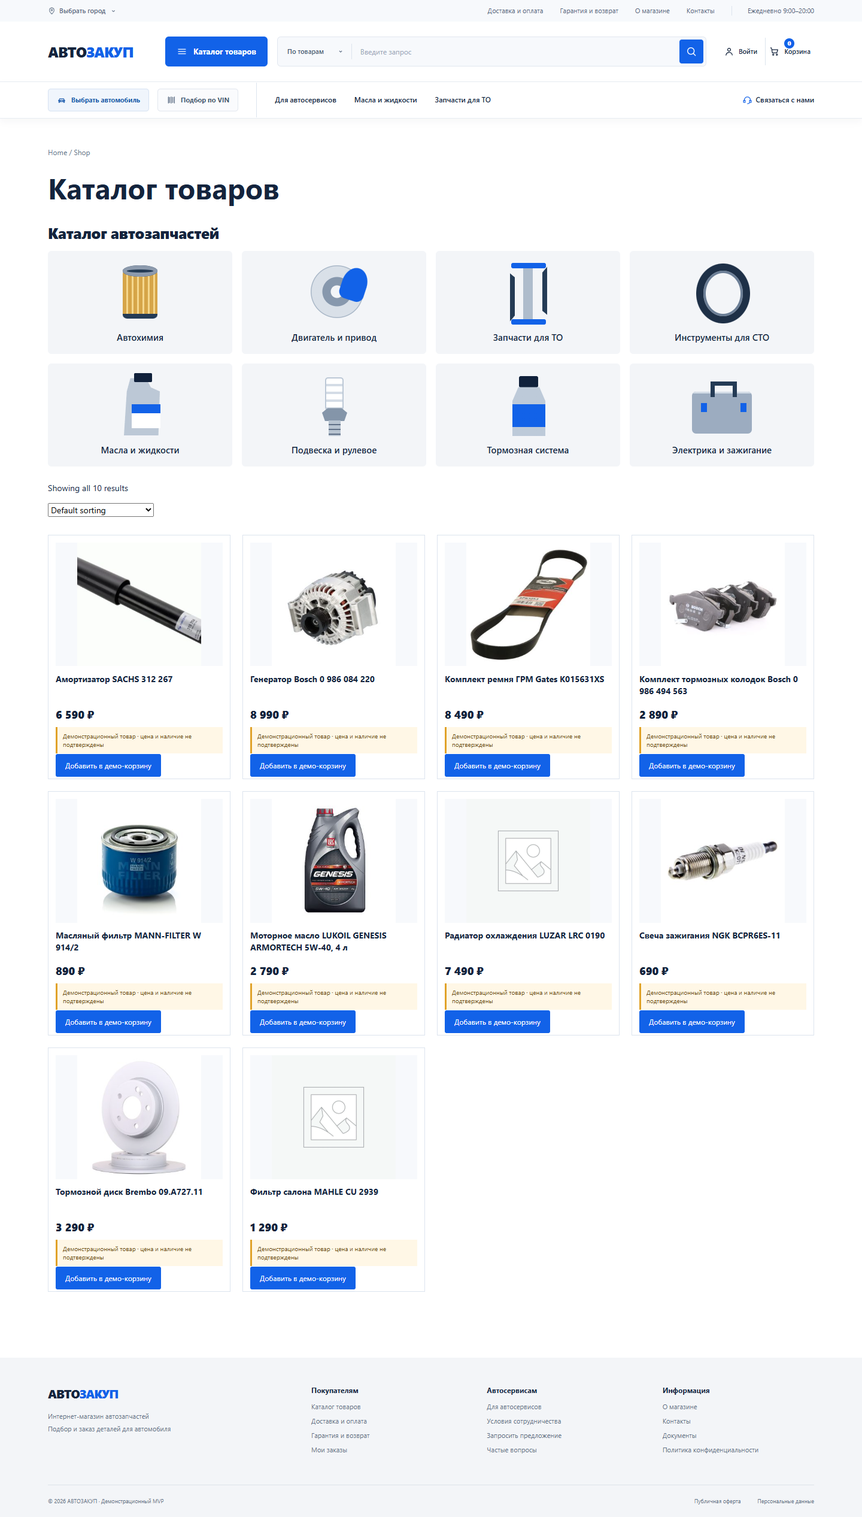
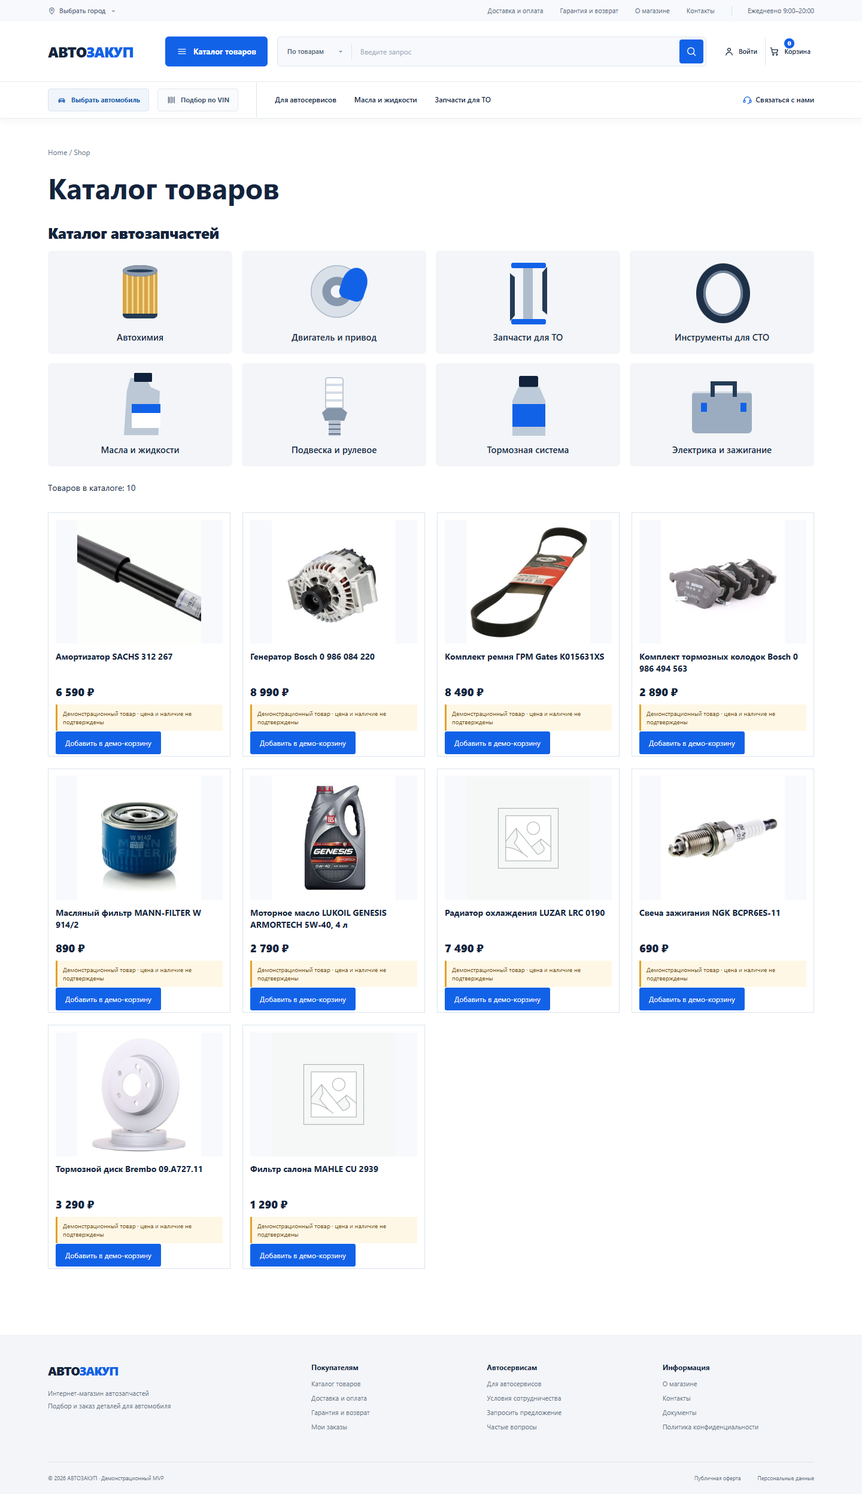
Scope canonical shop presentation controls

diff --git a/tests/e2e/catalog.spec.ts b/tests/e2e/catalog.spec.ts
@@ -30,12 +30,48 @@ test('opens the dynamic catalog and a published WooCommerce category', async ({ 
   await page.goto(shopUrl!, { waitUntil: 'networkidle' });
   await expect(page.getByRole('heading', { level: 1, name: 'Каталог товаров' })).toBeVisible();
 
+  const resultCount = page.locator('[data-shop-product-count]');
+  await expect(resultCount).toHaveCount(1);
+  await expect(resultCount).toHaveText(/^Товаров в каталоге: \d+$/);
+  await expect(page.locator('.woocommerce-ordering')).toHaveCount(0);
+
+  const visibleProducts = page.locator('ul.products li.product');
+  const visibleProductCount = await visibleProducts.count();
+  expect(visibleProductCount, 'The canonical catalog should render published products').toBeGreaterThan(0);
+  const totalProductCount = Number((await resultCount.innerText()).match(/\d+$/)?.[0] ?? 0);
+  expect(totalProductCount, 'The catalog total should cover every product visible on the current page').toBeGreaterThanOrEqual(visibleProductCount);
+  const productHrefs = await visibleProducts.locator('.woocommerce-loop-product__link').evaluateAll((links) =>
+    links.map((link) => (link as HTMLAnchorElement).href),
+  );
+  expect(productHrefs).toHaveLength(visibleProductCount);
+  const shopOrigin = new URL(page.url()).origin;
+  expect(
+    productHrefs.every((href) => {
+      const productUrl = new URL(href);
+      return productUrl.origin === shopOrigin && productUrl.pathname.length > 1;
+    }),
+    'Every catalog card should retain a same-origin product URL',
+  ).toBe(true);
+
   const catalog = page.locator('.az-shop-categories');
   await expect(catalog).toBeVisible();
   await expect(catalog.getByRole('heading', { name: 'Каталог автозапчастей' })).toBeVisible();
 
   const categoryCards = catalog.locator('.az-category-card');
   expect(await categoryCards.count(), 'The seeded top-level catalog should expose its eight demo categories').toBeGreaterThanOrEqual(8);
+
+  const accessibility = await new AxeBuilder({ page }).analyze();
+  const blockingViolations = accessibility.violations.filter((violation) => ['serious', 'critical'].includes(violation.impact ?? ''));
+  expect(
+    blockingViolations,
+    `Serious/critical axe violations:\n${JSON.stringify(blockingViolations, null, 2)}`,
+  ).toEqual([]);
+
+  const shopPageWidth = await page.evaluate(() => ({
+    clientWidth: document.documentElement.clientWidth,
+    scrollWidth: Math.max(document.documentElement.scrollWidth, document.body.scrollWidth),
+  }));
+  expect(shopPageWidth.scrollWidth).toBeLessThanOrEqual(shopPageWidth.clientWidth + 1);
 
   const visualDiffDirectory = path.resolve(process.cwd(), 'docs/qa/visual-diffs');
   await mkdir(visualDiffDirectory, { recursive: true });
@@ -54,6 +90,9 @@ test('opens the dynamic catalog and a published WooCommerce category', async ({ 
   await expect(page).toHaveURL(/\/product-category\//);
   await expect(page.locator('.woocommerce-breadcrumb')).toContainText('Тормозная система');
   await expect(page.getByRole('heading', { level: 1, name: 'Тормозная система' })).toBeVisible();
+  await expect(page.locator('[data-shop-product-count]')).toHaveCount(0);
+  await expect(page.locator('.woocommerce-result-count')).toHaveCount(1);
+  await expect(page.locator('.woocommerce-ordering')).toHaveCount(1);
   expect(await page.locator('ul.products li.product').count(), 'The published category should contain demo products').toBeGreaterThan(0);
 
   const pageWidth = await page.evaluate(() => ({

diff --git a/wp-content/themes/avtozakup/functions.php b/wp-content/themes/avtozakup/functions.php
@@ -191,8 +191,12 @@ function avtozakup_is_product_search_request(): bool {
 		|| ( is_array( $post_type ) && 1 === count( $post_type ) && 'product' === reset( $post_type ) );
 }
 
+function avtozakup_is_catalog_shop_request(): bool {
+	return function_exists( 'is_shop' ) && is_shop() && ! is_search();
+}
+
 function avtozakup_woocommerce_page_title( string $title ): string {
-	if ( function_exists( 'is_shop' ) && is_shop() && ! is_search() ) {
+	if ( avtozakup_is_catalog_shop_request() ) {
 		return 'Каталог товаров';
 	}
 
@@ -209,6 +213,13 @@ function avtozakup_render_product_search_result_count(): void {
 	$count = $wp_query instanceof WP_Query ? (int) $wp_query->found_posts : 0;
 	?>
 	<p class="woocommerce-result-count" data-product-search-count><?php echo esc_html( sprintf( 'Найдено товаров: %d', $count ) ); ?></p>
+	<?php
+}
+
+function avtozakup_render_shop_result_count(): void {
+	$count = function_exists( 'wc_get_loop_prop' ) ? (int) wc_get_loop_prop( 'total' ) : 0;
+	?>
+	<p class="woocommerce-result-count" data-shop-product-count><?php echo esc_html( sprintf( 'Товаров в каталоге: %d', $count ) ); ?></p>
 	<?php
 }
 
@@ -243,10 +254,21 @@ function avtozakup_configure_product_search_page(): void {
 	remove_action( 'woocommerce_before_shop_loop', 'woocommerce_catalog_ordering', 30 );
 }
 
+function avtozakup_configure_catalog_shop_page(): void {
+	if ( ! avtozakup_is_catalog_shop_request() ) {
+		return;
+	}
+
+	remove_action( 'woocommerce_before_shop_loop', 'woocommerce_result_count', 20 );
+	add_action( 'woocommerce_before_shop_loop', 'avtozakup_render_shop_result_count', 20 );
+	remove_action( 'woocommerce_before_shop_loop', 'woocommerce_catalog_ordering', 30 );
+}
+
 add_action( 'woocommerce_after_shop_loop_item', 'avtozakup_render_loop_demo_provenance', 7 );
 add_action( 'woocommerce_single_product_summary', 'avtozakup_render_single_demo_provenance', 11 );
 add_action( 'wp', 'avtozakup_configure_demo_product_page' );
 add_action( 'wp', 'avtozakup_configure_product_search_page' );
+add_action( 'wp', 'avtozakup_configure_catalog_shop_page' );
 add_filter( 'woocommerce_get_availability_text', 'avtozakup_demo_product_availability_text', 10, 2 );
 add_filter( 'woocommerce_product_single_add_to_cart_text', 'avtozakup_demo_single_add_to_cart_text', 10, 2 );
 add_filter( 'woocommerce_product_add_to_cart_text', 'avtozakup_demo_loop_add_to_cart_text', 10, 2 );
@@ -257,7 +279,7 @@ add_filter( 'woocommerce_page_title', 'avtozakup_woocommerce_page_title' );
 add_action(
 	'woocommerce_before_shop_loop',
 	static function (): void {
-		if ( ! function_exists( 'is_shop' ) || ! is_shop() || is_search() ) {
+		if ( ! avtozakup_is_catalog_shop_request() ) {
 			return;
 		}
 

diff --git a/docs/implementation/progress.md b/docs/implementation/progress.md
@@ -17,7 +17,7 @@
 | Demo provenance Woo | marked products явно подписаны на category/search cards и PDP; PDP показывает whitelisted Paper source, unknown raw meta не публикуется | реальные sources/freshness/offers только после DEC/интеграционных контрактов | `DONE / PROVISIONAL` для `I2-S3`; `PBL-011/FR-CAT-002/FR-OFR-002 partial` |
 | Technical demo PDP | exact seed SKU назван техническим, availability не выдаёт численный stock, action ведёт в демо-корзину, default related скрыт у marked demo | полный SCR-009, verified identifiers/relations/fitment/offers после DEC и контрактов | `DONE / PROVISIONAL` для `I2-S4`; `FR-CAT-002/003 partial` |
 | Product search baseline | neutral generic form; escaped query context/no-results; positive `Фильтр` → `2` product cards; shop category grid исключён из results | field index/ranking/normalization/suggestions и утверждённый DG-001/018 | `DONE / PROVISIONAL` для `I2-S5/S6`; `PBL-002/006/012` остаются blocked |
-| Scoped Woo public copy | shop H1, search count, demo loop action и PDP description labels локализованы named hooks без data mutation | breadcrumb/full Woo/admin/account/cart/checkout translation | `DONE / PROVISIONAL` для `I2-S7`; не полный i18n |
+| Scoped Woo public copy | shop H1/total, search count, demo loop action и PDP description labels локализованы named hooks; shop/search ordering UI снят до ranking contract | breadcrumb/full Woo/admin/account/cart/checkout translation; ranking/query | `DONE / PROVISIONAL` для `I2-S7/S9`; не полный i18n |
 | User-owned product isolation | authenticated temporary unmarked product сохраняет user SKU/stock/action/content и не получает demo UI; force-delete cleanup подтверждён | production master/RBAC/stock/lifecycle | `DONE / TECHNICAL` для `I2-S8`; не business acceptance |
 | Demo safety | AJAX add, badge, cart page, classic disabled checkout и direct Store API 403 прошли; demo маркировка сохранена | production commerce остаётся blocked до DEC | `DONE` для demo safety Итерации 1 |
 | Mobile | `390` и `360` проходят no-overflow, axe baseline и browser-error checks | утверждённый mobile-макет после DEC-019/020 | `DONE` для provisional adaptation; `DESIGN_REVIEW_REQUIRED` |
@@ -26,7 +26,7 @@
 | Backup/restore | парный DB+uploads backup проверен; isolated restore drill прошёл | production retention и scheduled recovery drill | `DONE` для локального drill |
 | Git deployment | ff-only/pre-backup/smoke script подготовлен, но Git remote и серверный target не подтверждены | создать/подтвердить remote, branch и staging/server access | `BLOCKED`; не DEPLOYED |
 | Server | доступ и диагностика не подтверждены | inventory existing sites/proxy/ports/volumes | `BLOCKED / NOT_DEPLOYED` |
-| E2E/a11y/visual | текущий Playwright: `29` tests, `27 passed`, `2 intentional skipped`, `0 failed`; catalog/search/PDP journeys на `1440/390/360` + desktop user-owned isolation | утверждение visual baseline после DEC-019/020 | Iteration 1 и I2-S1/S3/S4/S5/S6/S7/S8 technical acceptance PASS; `DESIGN_REVIEW_REQUIRED` |
+| E2E/a11y/visual | текущий Playwright: `29` tests, `27 passed`, `2 intentional skipped`, `0 failed`; catalog/search/PDP journeys на `1440/390/360` + desktop user-owned isolation | утверждение visual baseline после DEC-019/020 | Iteration 1 и I2-S1/S3/S4/S5/S6/S7/S8/S9 technical acceptance PASS; `DESIGN_REVIEW_REQUIRED` |
 
 ## Известные блокеры
 
@@ -48,6 +48,7 @@
 - DOM-selected marked product → technical SKU, unconfirmed demo availability, demo-cart action, no default related, image/descriptions/category, axe/no-overflow/runtime на `1440/390/360` — `PASS`.
 - Generic product special-character no-results → escaped H1/searchbox/status, no product cards, configured `/shop/` return, axe/no-overflow/runtime на `1440/390/360` — `PASS`.
 - Generic `Фильтр` results → two fixture product cards with provenance/permalinks, no shop category grid, axe/no-overflow/runtime на `1440/390/360` — `PASS`.
+- Canonical shop → local total `10`, no ordering UI; category retains standard ordering, cards/URLs + axe/no-overflow/runtime на `1440/390/360` — `PASS`.
 - Authenticated temporary unmarked product → no demo loop/PDP semantics, exact user SKU/stock/content, force-delete cleanup; post-full inventory `10/0` — `PASS`.
 - Runtime: WordPress `7.1.4`, WooCommerce `11.2.1`, PHP `8.3.36`, MariaDB `11.4.13`.
 - Seed после I2-S2B: `8` categories, `10` products, `10` attachments, `6` plugin-owned pages + `4` Woo page references, menu `24`; options `4/5/6/7`, confirm no-op и seed ×2 подтверждены.

diff --git a/docs/implementation/acceptance-status.md b/docs/implementation/acceptance-status.md
@@ -5,7 +5,7 @@
 
 **Приёмочный прогон Итерации 1:** `13` tests = `11 passed`, `2 intentional skipped`, `0 failed`.
 
-**Текущий regression после I2-S8:** `29` tests = `27 passed`, `2 intentional skipped`, `0 failed`; desktop `1440`, mobile `390`, mobile `360`, отдельный serial desktop admin project. Два skip — ожидаемые mobile-копии viewport-независимого Store API guard.
+**Текущий regression после I2-S9:** `29` tests = `27 passed`, `2 intentional skipped`, `0 failed`; desktop `1440`, mobile `390`, mobile `360`, отдельный serial desktop admin project. Два skip — ожидаемые mobile-копии viewport-независимого Store API guard.
 
 ## Технические критерии Итерации 2
 
@@ -101,6 +101,18 @@ I2-S7 имеет qualifier `PROVISIONAL / DESIGN_REVIEW_REQUIRED`; breadcrumb, s
 | I2-S8-ACC-005 | Regression не ухудшен | targeted `1 passed`; full `29`: `27 passed`, `2 intentional skipped`, `0 failed` | `PASS` |
 
 I2-S8 закрывает только technical isolation regression; production master data, permissions matrix, stock truth, relations и lifecycle остаются open/blocked.
+
+### I2-S9 — truthful canonical shop controls
+
+| ID | Критерий | Доказательство | Статус |
+|---|---|---|---|
+| I2-S9-ACC-001 | Shop count локален и truthful | one `[data-shop-product-count]` = «Товаров в каталоге: 10»; total >= visible cards | `PASS` |
+| I2-S9-ACC-002 | Unapproved ordering UI не показан | `.woocommerce-ordering` = `0` только на canonical shop; query/order filters не менялись | `PASS` |
+| I2-S9-ACC-003 | Search/category изолированы | search own count/no-ordering проходит; category has no shop marker и retains standard ordering | `PASS` |
+| I2-S9-ACC-004 | Responsive/a11y/runtime не ухудшены | catalog `3 passed` на `1440/390/360`; axe serious/critical `0`; no overflow/runtime; screenshots reviewed | `PASS` |
+| I2-S9-ACC-005 | Regression не ухудшен | full `29`: `27 passed`, `2 intentional skipped`, `0 failed` | `PASS` |
+
+I2-S9 закрывает только canonical-shop presentation. Ranking contract, query/data behavior, full localization и visual approval остаются open.
 
 ## Технические критерии Итерации 1
 

diff --git a/docs/implementation/iterations.md b/docs/implementation/iterations.md
@@ -342,6 +342,32 @@ Qualifier: это prevention-срез; одноразовая локальная
 
 Статус относится только к автоматизированной isolation/regression границе. Он не утверждает production master data, RBAC matrix, real stock или lifecycle.
 
+### I2-S9 — truthful canonical shop controls
+
+**Статус:** `DONE / PROVISIONAL`
+
+**Связь:** `SCR-005`, `PBL-010/PBL-012 partial`; presentation/ranking safety без новой business semantics.
+
+Критерии среза:
+
+- canonical shop определяется fail-closed как `is_shop() && !is_search()`;
+- default Woo result count заменяется named renderer «Товаров в каталоге: N» из `wc_get_loop_prop('total')`;
+- ordering control снимается только с canonical shop; query, default order, URL `orderby` и data не меняются;
+- product search сохраняет own scoped count/no-ordering; category archive сохраняет standard ordering;
+- `1440/390/360`: cards/URLs/category journey, axe serious/critical, no overflow/runtime errors и screenshots проходят.
+
+Вне scope: ranking contract, изменение query/order, category/tag localization, pagination wording, full i18n и approved visual design.
+
+Выполнено и проверено:
+
+- named shop predicate/config/count renderer добавлены без template override, `gettext` и CSS hiding;
+- shop показывает `data-shop-product-count` = «Товаров в каталоге: 10», `.woocommerce-ordering` отсутствует;
+- visible product cards и links сохранены; category archive не получает shop marker и сохраняет ordering;
+- targeted catalog: `3 passed`; PHP lint: `PASS`; screenshots обновлены и просмотрены;
+- full regression: `29` tests, `27 passed`, `2 intentional skipped`, `0 failed`.
+
+Статус закрывает только truthful canonical-shop presentation. Ranking/query/data и visual approval остаются open.
+
 ## Следующие итерации
 
 | Итерация-кандидат | Scope по исходному backlog | Gate |

diff --git a/docs/implementation/requirements-map.md b/docs/implementation/requirements-map.md
@@ -47,6 +47,7 @@
 | I2-S6 — generic search results | FR-SRCH-001—003 presentation partial; UC-SRCH-001 submit/results; PBL-002/006/012 safety partial; TC-003 presentation partial | neutral field-agnostic copy; unmodified Woo/WP query; product cards/provenance; shop categories and unapproved ordering excluded | fixture content audit `10`; `Фильтр` → `2` product cards; search file `6 passed`; full `26 passed / 2 skipped`; axe + 3 screenshots | `DONE / PROVISIONAL`; field contract/ranking/OEM/brand/design remain blocked |
 | I2-S7 — scoped Woo public copy | PBL-010/011/012/PBL-040 presentation partial; no new business scope | shop H1; search result count; direct-add demo loop action; PDP description labels via named filters/hooks | catalog/search/PDP `15 passed`; full `26 passed / 2 skipped`; existing screenshots updated | `DONE / PROVISIONAL`; breadcrumb/full localization/design remain open |
 | I2-S8 — user-owned isolation regression | PBL-011/PBL-040 regression safety; no new business scope | temporary authenticated unmarked product; loop/PDP demo-boundary assertions; guaranteed cleanup | targeted `1 passed`; post-full inventory `10`, temp matches `0`; full `27 passed / 2 skipped` | `DONE / TECHNICAL`; master/RBAC/real stock/lifecycle remain open |
+| I2-S9 — truthful canonical shop controls | SCR-005; PBL-010/012 presentation/ranking safety partial | scoped shop predicate; Woo loop total; named count renderer; ordering UI removed without query mutation | catalog `3 passed`; local total `10`; category isolation; axe/no-overflow/runtime + 3 screenshots; full `27 passed / 2 skipped` | `DONE / PROVISIONAL`; ranking/query/data/design remain open |
 
 ## Статусы исходного backlog
 

diff --git a/docs/implementation/decision-log.md b/docs/implementation/decision-log.md
@@ -21,6 +21,7 @@
 | TECH-015 | 2026-11-01 | `Relevance` ordering control скрывается только на product search до ranking contract | Не создаёт ложного впечатления утверждённого ranking; underlying Woo/WP query и result count не меняются | принято для I2-S6; ranking остаётся blocked |
 | TECH-016 | 2026-11-01 | Четыре проверенных Woo public labels локализуются named hooks/filters без gettext/template override; demo loop CTA меняется только в direct-add state | Сужает blast radius, сохраняет labels out-of-stock/variable states и не меняет user-owned page/content/data; full translation catalog остаётся отдельной задачей | принято для I2-S7; partial public copy only |
 | TECH-017 | 2026-11-01 | Demo presentation boundary проверяется временным authenticated unmarked product с обязательным validated force-delete cleanup | Даёт browser-level доказательство отсутствия demo leakage в loop/PDP; exact-SKU REST check подтверждает cleanup в штатном test run | принято для I2-S8; production master/RBAC/lifecycle open |
+| TECH-018 | 2026-11-01 | Canonical shop показывает local total и не показывает ordering UI до ranking contract | Named hooks меняют только presentation при `is_shop() && !is_search()`; query/default order/data не изменяются, category/search изолированы | принято для I2-S9; ranking и design open |
 
 ## Состояние DEC
 

diff --git a/docs/implementation/component-registry.md b/docs/implementation/component-registry.md
@@ -15,6 +15,7 @@
 | Hero/promo | SCR-002 | `front-page.php`, Settings API | editable copy/media | normal + image fallback via defaults | homepage; `TESTING` |
 | Benefits row | SCR-002 | `front-page.php` | static presentation copy | normal | reusable card pattern; `TESTING` |
 | Category card/grid | UI-SCR002-012; SCR-005 | shared `helpers.php`, homepage и shop hook | Woo category | populated + CRUD/render/cleanup; reused on configured shop page | I2-S1 `PASS / PROVISIONAL`; master taxonomy TBD |
+| Catalog archive controls | SCR-005; PBL-010/012 partial | named Woo hooks in `functions.php` | Woo loop total | canonical shop: local total count, no ordering UI; search/category scopes isolated | I2-S9 `PASS / PROVISIONAL`; ranking/query/design open |
 | Product card/row | UI-SCR002-013—015 | `helpers.php`, Woo filters | WC product | demo/real label, in/out stock; standard Woo direct-add loop имеет explicit demo action; CRUD/render проверен | I2-S3/S7 `PASS / PROVISIONAL`; business meaning `BLOCKED` |
 | Product detail technical baseline | SCR-009 partial | Woo hooks/filters, no template override | WC product + demo marker | provenance, technical SKU, unconfirmed availability, demo action, description labels; related suppressed for demo; unmarked isolation E2E | I2-S3/S4/S7/S8 `PASS / PROVISIONAL`; full PDP `BLOCKED` |
 | VIN entry block | UI-SCR002-016 | `front-page.php` | no persistence | partial input + status, no submit | SCR-004 later; `BLOCKED` |

diff --git a/README.md b/README.md
@@ -21,7 +21,7 @@
 - первый срез Итерации 2: динамическая настроенная WooCommerce shop page с восемью curated категориями, общими category cards и переходом в category archive;
 - technical demo PDP baseline: явная provenance, fail-closed technical SKU, unconfirmed availability и отсутствие неподтверждённых related products;
 - provisional generic product search: escaped results/no-results context и canonical возврат в каталог; field index/article/brand/ranking не заявлены;
-- scoped public Woo copy: shop H1, search count, demo actions и PDP description labels; полная локализация остаётся отдельной задачей;
+- scoped public Woo copy: shop H1/count, search count, demo actions и PDP description labels; unapproved ordering UI снят только на shop/search, полная локализация остаётся отдельной задачей;
 - E2E isolation: временный unmarked Woo product не получает demo presentation; `finally` cleanup и отсутствие temporary SKU проверяются;
 - локальный и production Compose, Caddy с CIDR-ограничением админки, именованные volumes;
 - backup/restore связанного комплекта MariaDB + `uploads`;
